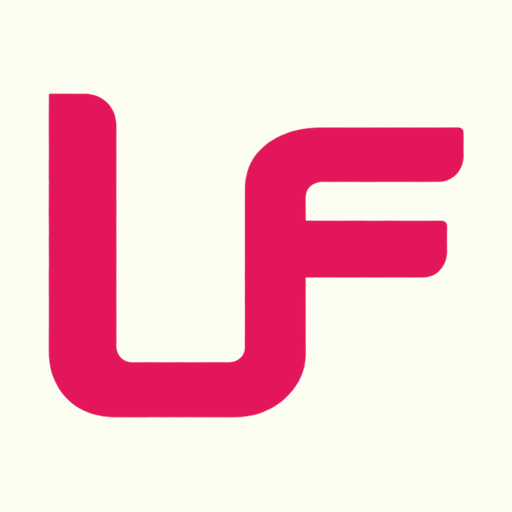
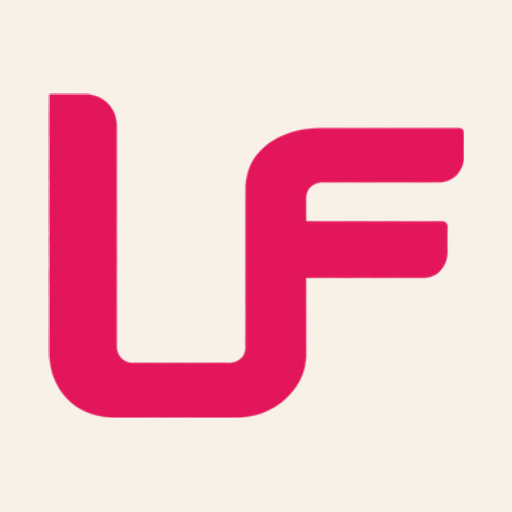
Apply Atelier Burgundy theme: remove pink from the UI, new fonts
- Colours: burgundy primary, ivory background, blush tints, warm-white
  cards; no pink anywhere in the interface (buttons, links, focus ring,
  badges, hero, OG image, favicon background). Token names are kept so
  components didn't change. Dark mode uses the Atelier dark palette.
- Fonts: Cormorant Garamond (headings, lining figures) and Manrope (body
  and UI) replace Anton and Figtree; bundle codes use Manrope bold.
- Hero text burgundy/ink on an ivory fade (>=7.7:1 at every width).
- Keep nav items and buttons on one line with the wider Manrope.
- Update /styleguide to the new colours and fonts.

Claude-Session: https://claude.ai/code/session_019o6ZvNQZqtrkfVewfpjSbr

diff --git a/app/styleguide/page.tsx b/app/styleguide/page.tsx
@@ -10,52 +10,66 @@ export const metadata: Metadata = {
 };
 
 const colours = [
-  { name: "Pink", token: "--pink", light: "#E3165B", dark: "#FF5C8F", use: "Main accent, buttons" },
   {
-    name: "Pink ink",
+    name: "Deep burgundy",
+    token: "--pink",
+    light: "#632D43",
+    dark: "#E7B3C3",
+    use: "Primary: buttons, active states",
+  },
+  {
+    name: "Burgundy hover",
+    token: "--pink-hover",
+    light: "#4E2235",
+    dark: "#F0C7D3",
+    use: "Primary hover",
+  },
+  {
+    name: "Accent text",
     token: "--pink-ink",
-    light: "#C8104F",
-    dark: "#FF7AA4",
-    use: "Pink text on tinted areas",
+    light: "#632D43",
+    dark: "#E7B3C3",
+    use: "Links and accent text",
   },
-  { name: "Plum", token: "--plum", light: "#8E2550", dark: "#F3A6C3", use: "Headings, labels" },
-  { name: "Ink", token: "--ink", light: "#2A1320", dark: "#F6EAF0", use: "Body text" },
-  { name: "Muted", token: "--muted", light: "#6B5560", dark: "#C9B3BE", use: "Secondary text" },
+  { name: "Headings", token: "--plum", light: "#632D43", dark: "#E7B3C3", use: "Headings, labels" },
+  { name: "Ink", token: "--ink", light: "#2B1A21", dark: "#F5ECE6", use: "Body text" },
   {
-    name: "Soft blush",
-    token: "--blush",
-    light: "#FCE7EF",
-    dark: "#2A1822",
-    use: "Tinted sections",
+    name: "Mauve grey",
+    token: "--muted",
+    light: "#6E5A61",
+    dark: "#C8B4BB",
+    use: "Secondary text",
   },
+  { name: "Blush", token: "--blush", light: "#EAD6D9", dark: "#3A2530", use: "Tinted sections" },
   {
-    name: "Off-white",
-    token: "--offwhite",
-    light: "#FCFEF1",
-    dark: "#1A0D14",
-    use: "Page background",
+    name: "Muted rose",
+    token: "--rose",
+    light: "#BC8A95",
+    dark: "#8A5A67",
+    use: "Decorative only, never text",
   },
-  { name: "Card", token: "--card", light: "#FFFFFF", dark: "#24141D", use: "Cards" },
-  { name: "Line", token: "--line", light: "#ECDDE4", dark: "#3D2A34", use: "Dividers, borders" },
+  { name: "Ivory", token: "--offwhite", light: "#F7F1E8", dark: "#1A1014", use: "Page background" },
+  { name: "Warm white", token: "--card", light: "#FFFDF9", dark: "#241820", use: "Cards" },
+  { name: "Linen", token: "--line", light: "#E2D2CD", dark: "#3B2A31", use: "Dividers, borders" },
   {
-    name: "Line strong",
+    name: "Field line",
     token: "--line-strong",
-    light: "#8A7280",
-    dark: "#9A8290",
+    light: "#8C7480",
+    dark: "#8A7480",
     use: "Form borders (3:1)",
   },
 ];
 
 const type = [
-  { cls: "display text-7xl", label: "Display XL · Anton 72" },
-  { cls: "display text-5xl", label: "Display L · Anton 48" },
-  { cls: "display text-3xl", label: "Display M · Anton 30" },
-  { cls: "text-2xl font-bold", label: "Heading · Figtree 24 bold" },
-  { cls: "text-xl font-bold", label: "Subheading · Figtree 20 bold" },
-  { cls: "text-lg", label: "Lead · Figtree 18" },
-  { cls: "text-base", label: "Body · Figtree 16" },
-  { cls: "text-sm", label: "Small · Figtree 14" },
-  { cls: "text-xs", label: "Caption · Figtree 12" },
+  { cls: "display text-7xl", label: "Display XL · Cormorant Garamond 600, 72" },
+  { cls: "display text-5xl", label: "Display L · Cormorant Garamond 600, 48" },
+  { cls: "display text-3xl", label: "Display M · Cormorant Garamond 600, 30" },
+  { cls: "text-2xl font-bold", label: "Heading · Manrope 24 bold" },
+  { cls: "text-xl font-bold", label: "Subheading · Manrope 20 bold" },
+  { cls: "text-lg", label: "Lead · Manrope 18" },
+  { cls: "text-base", label: "Body · Manrope 16" },
+  { cls: "text-sm", label: "Small · Manrope 14" },
+  { cls: "text-xs", label: "Caption · Manrope 12" },
 ];
 
 export default function StyleguidePage() {
@@ -94,8 +108,10 @@ export default function StyleguidePage() {
             </li>
           ))}
           <li className="flex flex-col gap-1">
-            <span className="text-xs font-semibold text-muted">Bundle code · Anton</span>
-            <span className="display text-4xl text-pink-ink">LF-01</span>
+            <span className="text-xs font-semibold text-muted">Bundle code · Manrope bold</span>
+            <span className="text-4xl font-bold tracking-[0.06em] text-pink-ink tabular-nums">
+              LF-01
+            </span>
           </li>
         </ul>
       </Section>

diff --git a/app/globals.css b/app/globals.css
@@ -1,47 +1,48 @@
 @import "tailwindcss";
 
-/* ---------------------------------------------------------------
-   Lulu Femme design tokens
-   Light values first, dark-mode versions under prefers-color-scheme.
----------------------------------------------------------------- */
+/* Atelier Burgundy theme (see docs/brand). Token names are kept from the
+   original build so components didn't change: "pink" now means the primary
+   burgundy. No pink is used in the UI; only the logo files are pink. */
 :root {
-  --pink: #e3165b; /* main accent, buttons (white text 4.63:1) */
-  --pink-hover: #c8104f;
-  --pink-ink: #c8104f; /* pink text on blush/tinted areas (4.89:1) */
-  --on-pink: #ffffff;
-  --plum: #8e2550; /* headings, labels */
-  --ink: #2a1320; /* body text */
-  --muted: #6b5560; /* secondary text */
-  --blush: #fce7ef; /* tinted sections */
-  --offwhite: #fcfef1; /* page background */
-  --card: #ffffff;
-  --line: #ecdde4;
-  --line-strong: #8a7280; /* form borders, 3:1 non-text contrast */
-  --success: #17663a;
-  --danger: #b3123f;
-  --header-bg: rgb(255 255 255 / 0.85);
-  --shadow: 0 6px 24px -12px rgb(42 19 32 / 0.25);
+  --pink: #632d43; /* primary: buttons, active states (ivory text 9.4:1) */
+  --pink-hover: #4e2235;
+  --pink-ink: #632d43; /* accent text on ivory / blush (9.4:1 / 7.6:1) */
+  --on-pink: #f7f1e8;
+  --plum: #632d43; /* headings, labels */
+  --ink: #2b1a21; /* body text */
+  --muted: #6e5a61; /* secondary text */
+  --blush: #ead6d9; /* tinted sections */
+  --rose: #bc8a95; /* decorative only, never text */
+  --offwhite: #f7f1e8; /* ivory page background */
+  --card: #fffdf9;
+  --line: #e2d2cd;
+  --line-strong: #8c7480; /* form borders, 3:1 non-text contrast */
+  --success: #2f6b4a;
+  --danger: #a3123a;
+  --header-bg: rgb(255 253 249 / 0.88);
+  --shadow: 0 10px 30px -18px rgb(43 26 33 / 0.35);
   color-scheme: light;
 }
 
 @media (prefers-color-scheme: dark) {
   :root {
-    --pink: #ff5c8f;
-    --pink-hover: #ff7aa4;
-    --pink-ink: #ff7aa4;
-    --on-pink: #1a0d14;
-    --plum: #f3a6c3;
-    --ink: #f6eaf0;
-    --muted: #c9b3be;
-    --blush: #2a1822;
-    --offwhite: #1a0d14;
-    --card: #24141d;
-    --line: #3d2a34;
-    --line-strong: #9a8290;
-    --success: #6fd49a;
-    --danger: #ff8fb0;
-    --header-bg: rgb(26 13 20 / 0.85);
-    --shadow: 0 6px 24px -12px rgb(0 0 0 / 0.6);
+    --pink: #e7b3c3;
+    --pink-hover: #f0c7d3;
+    --pink-ink: #e7b3c3;
+    --on-pink: #2b1a21;
+    --plum: #e7b3c3;
+    --ink: #f5ece6;
+    --muted: #c8b4bb;
+    --blush: #3a2530;
+    --rose: #8a5a67;
+    --offwhite: #1a1014;
+    --card: #241820;
+    --line: #3b2a31;
+    --line-strong: #8a7480;
+    --success: #7fd3a6;
+    --danger: #ff8fae;
+    --header-bg: rgb(26 16 20 / 0.88);
+    --shadow: 0 10px 30px -18px rgb(0 0 0 / 0.6);
     color-scheme: dark;
   }
 }
@@ -55,6 +56,7 @@
   --color-ink: var(--ink);
   --color-muted: var(--muted);
   --color-blush: var(--blush);
+  --color-rose: var(--rose);
   --color-offwhite: var(--offwhite);
   --color-card: var(--card);
   --color-line: var(--line);
@@ -62,8 +64,8 @@
   --color-success: var(--success);
   --color-danger: var(--danger);
 
-  --font-sans: var(--font-figtree), ui-sans-serif, system-ui, sans-serif;
-  --font-display: var(--font-anton), Impact, "Arial Narrow", sans-serif;
+  --font-sans: var(--font-manrope), Manrope, ui-sans-serif, system-ui, sans-serif;
+  --font-display: var(--font-cormorant), "Cormorant Garamond", Garamond, "Times New Roman", serif;
 
   --shadow-soft: var(--shadow);
 }
@@ -110,9 +112,12 @@ body {
   }
   .display {
     font-family: var(--font-display);
-    text-transform: uppercase;
-    letter-spacing: 0.01em;
-    line-height: 1.05;
+    font-weight: 600;
+    letter-spacing: -0.01em;
+    line-height: 1.08;
+    text-wrap: balance;
+    /* Cormorant defaults to old-style figures, which make "10" read like "IO" */
+    font-variant-numeric: lining-nums;
   }
   .prose-lf p {
     margin-block: 0.75rem;

diff --git a/components/HeroBanner.tsx b/components/HeroBanner.tsx
@@ -27,7 +27,7 @@ export interface HeroBannerProps {
  * Full-width hero. Art-directed <picture>: the browser downloads only the
  * image for the current screen (desktop ≥768px, mobile below).
  * Mobile shows a small headline and the buttons; desktop adds the subline.
- * Text is pink on a soft cream fade so it stays readable on the photo.
+ * Burgundy text on a soft ivory fade so it stays readable on the photo.
  * Built as a single slide so it can later be wrapped in a slider.
  */
 export function HeroBanner({
@@ -70,7 +70,7 @@ export function HeroBanner({
       {/* Soft cream fade behind the text: from the bottom on mobile, from the left on desktop */}
       <div
         aria-hidden="true"
-        className="absolute inset-0 -z-[5] bg-[linear-gradient(0deg,rgba(252,254,241,0.97)_0%,rgba(252,254,241,0.92)_32%,rgba(252,254,241,0)_58%)] md:bg-[linear-gradient(90deg,rgba(252,254,241,0.94)_0px,rgba(252,254,241,0.88)_620px,rgba(252,254,241,0)_950px)] lg:bg-[linear-gradient(90deg,rgba(252,254,241,0.94)_0px,rgba(252,254,241,0.88)_780px,rgba(252,254,241,0)_1150px)]"
+        className="absolute inset-0 -z-[5] bg-[linear-gradient(0deg,rgba(247,241,232,0.97)_0%,rgba(247,241,232,0.92)_32%,rgba(247,241,232,0)_58%)] md:bg-[linear-gradient(90deg,rgba(247,241,232,0.94)_0px,rgba(247,241,232,0.88)_620px,rgba(247,241,232,0)_950px)] lg:bg-[linear-gradient(90deg,rgba(247,241,232,0.94)_0px,rgba(247,241,232,0.88)_780px,rgba(247,241,232,0)_1150px)]"
       />
 
       <div className="absolute inset-x-0 bottom-0 pb-6 md:pb-16 lg:pb-20">
@@ -78,11 +78,11 @@ export function HeroBanner({
           <div className="md:max-w-[500px] lg:max-w-[620px]">
             <h1
               id="hero-title"
-              className="hero-fade text-[1.75rem] leading-[1.05] font-bold tracking-[-0.03em] text-[#E3165B] md:text-[3.25rem] md:leading-[1.02] lg:text-[4.5rem]"
+              className="hero-fade font-display text-[1.75rem] leading-[1.05] font-semibold tracking-[-0.01em] text-[#632D43] md:text-[3.25rem] md:leading-[1.02] lg:text-[4.5rem]"
             >
               {headline}
             </h1>
-            <p className="hero-fade hero-delay-1 mt-4 hidden text-2xl leading-snug font-medium text-[#C8104F] md:block">
+            <p className="hero-fade hero-delay-1 mt-4 hidden text-2xl leading-snug font-medium text-[#2B1A21] md:block">
               {subline}
             </p>
             <div className="hero-fade hero-delay-2 mt-4 flex flex-wrap gap-2.5 md:mt-8 md:gap-3">
@@ -90,7 +90,7 @@ export function HeroBanner({
                 <Link
                   key={b.href}
                   href={b.href}
-                  className="btn-fill inline-flex h-11 items-center rounded-full border-2 border-[#E3165B] bg-[#FBF7F8] px-5 text-sm font-semibold text-[#2A1320] md:h-12 md:px-7 md:text-base"
+                  className="btn-fill inline-flex h-11 items-center rounded-full border-2 border-[#632D43] bg-[#FFFDF9] px-5 text-sm font-semibold text-[#632D43] md:h-12 md:px-7 md:text-base"
                 >
                   {b.label}
                 </Link>

diff --git a/app/layout.tsx b/app/layout.tsx
@@ -1,5 +1,5 @@
 import type { Metadata, Viewport } from "next";
-import { Anton, Figtree } from "next/font/google";
+import { Cormorant_Garamond, Manrope } from "next/font/google";
 import { JsonLd } from "@/components/JsonLd";
 import { CookieConsent } from "@/components/layout/CookieConsent";
 import { Footer } from "@/components/layout/Footer";
@@ -9,13 +9,14 @@ import { Providers } from "@/components/providers/Providers";
 import { site } from "@/lib/site";
 import "./globals.css";
 
-const anton = Anton({
-  weight: "400",
+const cormorant = Cormorant_Garamond({
+  weight: ["500", "600"],
+  style: ["normal", "italic"],
   subsets: ["latin"],
-  variable: "--font-anton",
+  variable: "--font-cormorant",
   display: "swap",
 });
-const figtree = Figtree({ subsets: ["latin"], variable: "--font-figtree", display: "swap" });
+const manrope = Manrope({ subsets: ["latin"], variable: "--font-manrope", display: "swap" });
 
 export const metadata: Metadata = {
   metadataBase: new URL(site.url),
@@ -37,8 +38,8 @@ export const metadata: Metadata = {
 
 export const viewport: Viewport = {
   themeColor: [
-    { media: "(prefers-color-scheme: light)", color: "#fcfef1" },
-    { media: "(prefers-color-scheme: dark)", color: "#1a0d14" },
+    { media: "(prefers-color-scheme: light)", color: "#f7f1e8" },
+    { media: "(prefers-color-scheme: dark)", color: "#1a1014" },
   ],
 };
 
@@ -70,7 +71,7 @@ const organization = {
 
 export default function RootLayout({ children }: Readonly<{ children: React.ReactNode }>) {
   return (
-    <html lang="en-GB" className={`${anton.variable} ${figtree.variable}`}>
+    <html lang="en-GB" className={`${cormorant.variable} ${manrope.variable}`}>
       <body className="relative min-h-dvh">
         {/* Marker 60px down the page; the header watches it with an IntersectionObserver. */}
         <div

diff --git a/lib/og.tsx b/lib/og.tsx
@@ -17,18 +17,18 @@ export async function brandOgImage(headline: string, subline: string) {
         flexDirection: "column",
         justifyContent: "center",
         padding: 80,
-        background: "#fcfef1",
-        color: "#8e2550",
+        background: "#f7f1e8",
+        color: "#632d43",
       }}
     >
       {/* eslint-disable-next-line @next/next/no-img-element -- ImageResponse needs a plain img */}
       <img src={src} width={160} height={125} alt="" />
       <div
-        style={{ fontSize: 72, fontWeight: 800, marginTop: 40, lineHeight: 1.05, color: "#8e2550" }}
+        style={{ fontSize: 72, fontWeight: 800, marginTop: 40, lineHeight: 1.05, color: "#632d43" }}
       >
         {headline}
       </div>
-      <div style={{ fontSize: 32, marginTop: 24, color: "#2a1320" }}>{subline}</div>
+      <div style={{ fontSize: 32, marginTop: 24, color: "#2b1a21" }}>{subline}</div>
       <div
         style={{
           position: "absolute",
@@ -36,7 +36,7 @@ export async function brandOgImage(headline: string, subline: string) {
           bottom: 0,
           width: "100%",
           height: 16,
-          background: "#e3165b",
+          background: "#632d43",
         }}
       />
     </div>,

diff --git a/components/ui/Button.tsx b/components/ui/Button.tsx
@@ -6,7 +6,7 @@ type Variant = "primary" | "secondary" | "ghost" | "inverse" | "inverseOutline";
 type Size = "md" | "sm";
 
 const base =
-  "inline-flex min-h-11 min-w-11 items-center justify-center gap-2 rounded-full font-semibold transition-colors duration-150 disabled:cursor-not-allowed disabled:opacity-60";
+  "inline-flex min-h-11 min-w-11 items-center justify-center gap-2 whitespace-nowrap rounded-full font-semibold transition-colors duration-150 disabled:cursor-not-allowed disabled:opacity-60";
 const variants: Record<Variant, string> = {
   primary: "bg-pink text-on-pink hover:bg-pink-hover",
   secondary: "btn-fill border-2 border-pink bg-transparent text-pink-ink",

diff --git a/components/layout/Header.tsx b/components/layout/Header.tsx
@@ -90,7 +90,7 @@ export function Header() {
                     href={item.href}
                     aria-current={isActive(item.href) ? "page" : undefined}
                     className={cn(
-                      "inline-flex min-h-11 items-center rounded-full px-3 text-[0.95rem] font-medium hover:text-pink-ink",
+                      "inline-flex min-h-11 items-center rounded-full px-2.5 text-[0.9rem] font-medium whitespace-nowrap hover:text-pink-ink",
                       isActive(item.href)
                         ? "text-pink-ink underline underline-offset-8"
                         : "text-ink",

diff --git a/components/ui/Badge.tsx b/components/ui/Badge.tsx
@@ -20,14 +20,14 @@ export function Badge({
   children: ReactNode;
   tone?: Tone;
   className?: string;
-  /** Use the Anton display font (for bundle codes). */
+  /** Bundle-code style: bold, tracked, tabular figures. */
   display?: boolean;
 }) {
   return (
     <span
       className={cn(
         "inline-flex items-center rounded-full px-2.5 py-1 text-xs leading-none font-semibold",
-        display && "display text-[0.8rem] font-normal tracking-wide",
+        display && "font-bold tracking-[0.06em] tabular-nums",
         tones[tone],
         className,
       )}
